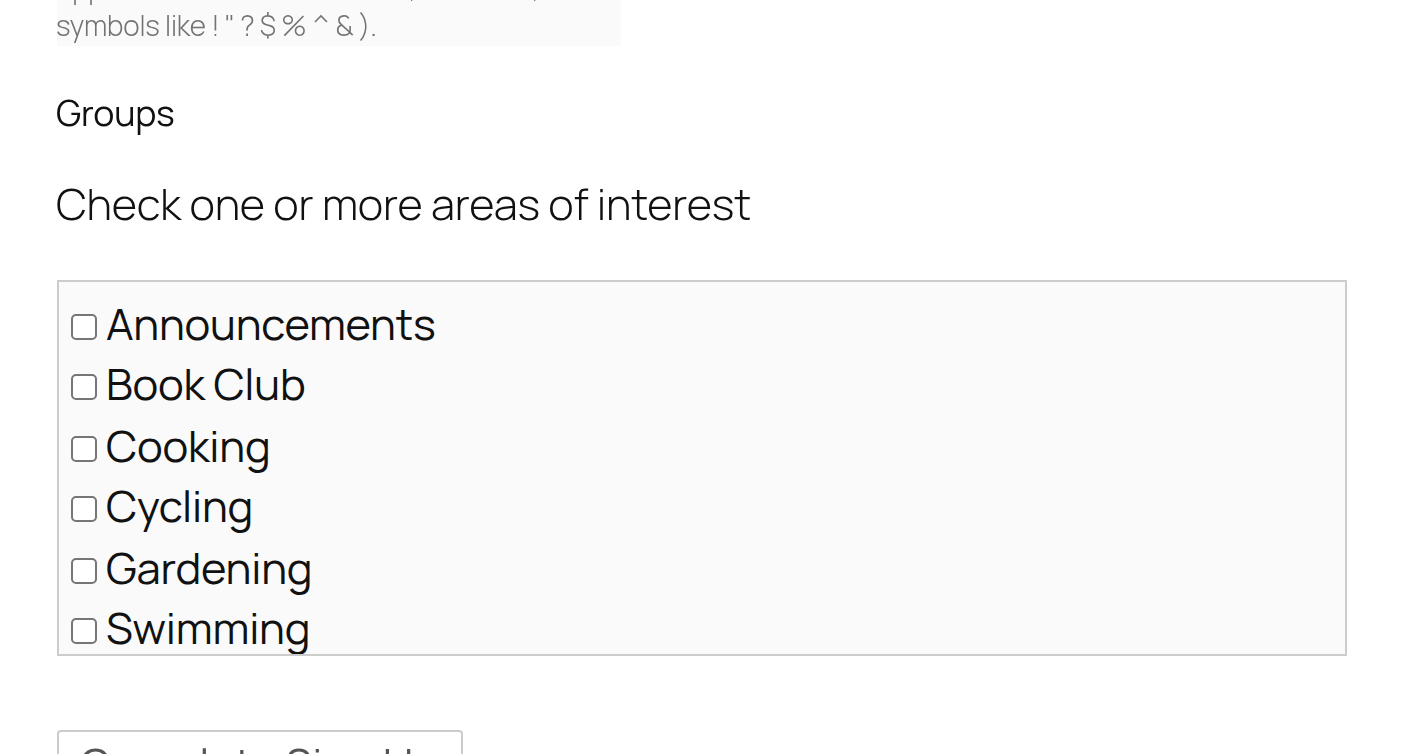
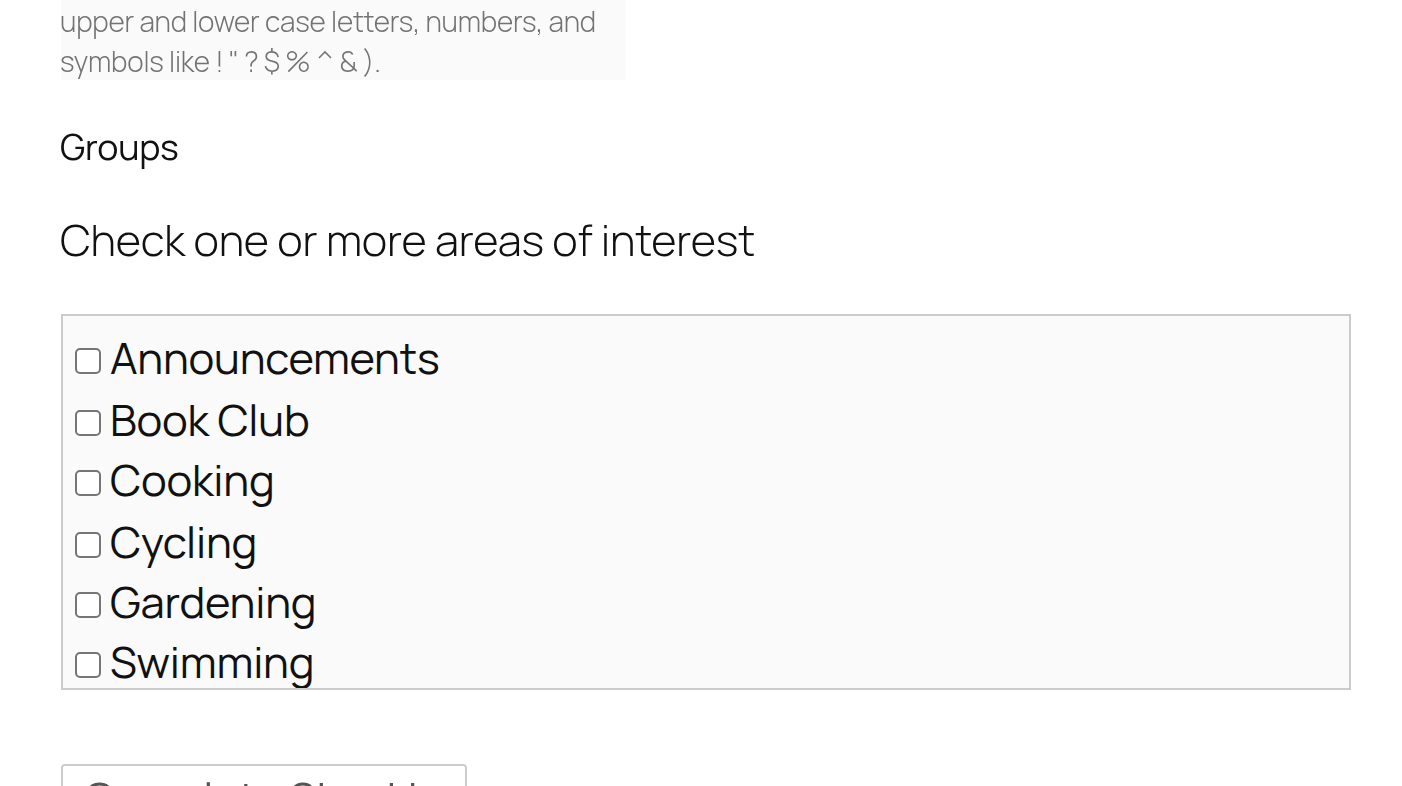
Refresh screenshots on a live sandbox and add a Group Sections shot
Verified the sections feature end-to-end on a real WordPress 7.0.4 +
BuddyPress 14.5.2 install (SQLite sandbox, browser-driven signups):
checkbox selections aggregate across sections into signup meta and join
at activation, radio mode allows exactly one selection per section, the
required-selection error blocks an empty submission and re-renders the
sectioned form, and per-group hidden/auto-join/checked settings behave
inside sections.

Recaptured all six wordpress.org screenshots on that sandbox and added
screenshot-7 showing the registration form organized into curated
'Interests' and 'Activities' sections. The settings screenshot now
includes the Group Sections editor.

Also gave section titles and descriptions explicit sizing in styles.css:
themes that size form paragraphs larger than headings (e.g. Twenty
Twenty-Five) rendered section titles smaller than their descriptions,
inverting the visual hierarchy.

Claude-Session: https://claude.ai/code/session_01JzyKx4tDfUoTVA3sof1D2m

diff --git a/includes/styles.css b/includes/styles.css
@@ -79,10 +79,15 @@
 #buddypress .reg_groups_section_title,
 .reg_groups_section_title {
 	margin: 0 0 2px;
+	font-size: 1.2em;
+	font-weight: 600;
 }
 
 .reg_groups_section_description {
 	margin: 0 0 6px;
+	font-size: 0.85em;
+	font-style: italic;
+	color: gray;
 }
 
 /**

diff --git a/README.md b/README.md
@@ -132,10 +132,15 @@ Here is a list of the current selectors used in ```includes/styles.css```.
 #buddypress .reg_groups_section_title,
 .reg_groups_section_title {
 	margin: 0 0 2px;
+	font-size: 1.2em;
+	font-weight: 600;
 }
 
 .reg_groups_section_description {
 	margin: 0 0 6px;
+	font-size: 0.85em;
+	font-style: italic;
+	color: gray;
 }
 ```
 
@@ -192,6 +197,7 @@ Changelog
 * With the radio button display, each section is its own radio group, so registrants can select one group per section; checkboxes allow any number of selections across sections. Selections from every section are sanitized, aggregated once into the signup meta, and joined at activation.
 * The per-group Hide, Checked by default, and Auto-join settings apply inside sections, and hidden, private (when not shown), or nonexistent groups are never exposed even when assigned to a section.
 * Existing installations are unaffected until sections are configured: with no sections defined, the single global list renders exactly as before.
+* Refreshed all screenshots on current WordPress/BuddyPress and added a seventh showing Group Sections in action; the settings screenshot now includes the Group Sections editor.
 
 ### 1.4.0
 * New: "Require Group Selection" setting (off by default). When enabled, signup cannot be completed until the registrant selects at least one group, validated server-side on the BuddyPress signup flow (single site and multisite). Requested in the wordpress.org support forum.
